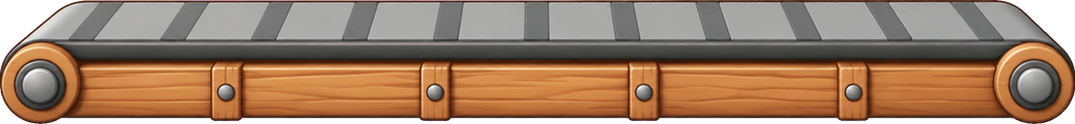
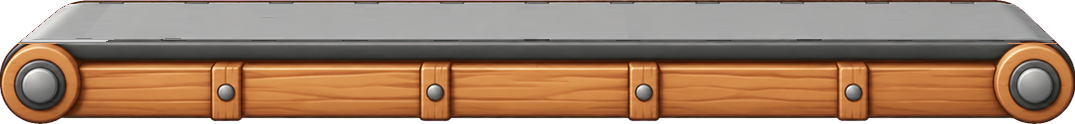
Feeding: an animal never wishes for the same food twice (2-3 different foods per animal); belt without painted slats, foods sit lower on it

diff --git a/tools/art-import/make-feeding-art.js b/tools/art-import/make-feeding-art.js
@@ -20,12 +20,36 @@ const TILE = 88;         // the same, in the installed belt.png
 const SLAT_X = 182;      // a column where a dark slat begins (the crop starts there)
 const SURFACE_Y0 = 4, SURFACE_Y1 = 46;
 
+function eraseSlats(data, w, h, y0, y1) {
+  const lum = (i) => (data[i] + data[i + 1] + data[i + 2]) / 3;
+  for (let y = y0; y < y1 && y < h; y++) {
+    const dark = new Uint8Array(w);
+    for (let x = 0; x < w; x++) { const i = (y * w + x) * 4; dark[x] = data[i + 3] > 200 && lum(i) < 124 ? 1 : 0; }
+    const grown = new Uint8Array(w); // slat edges are anti-aliased: widen each dark run by 3 px
+    for (let x = 0; x < w; x++) if (dark[x]) for (let d = -3; d <= 3; d++) if (x + d >= 0 && x + d < w) grown[x + d] = 1;
+    for (let x = 0; x < w; x++) {
+      if (!grown[x]) continue;
+      let src = -1;
+      for (let d = 1; d < 80 && src < 0; d++) {
+        if (x - d >= 0 && !grown[x - d] && data[((y * w) + x - d) * 4 + 3] > 200) src = x - d;
+        else if (x + d < w && !grown[x + d] && data[((y * w) + x + d) * 4 + 3] > 200) src = x + d;
+      }
+      if (src < 0 || data[(y * w + x) * 4 + 3] < 200) continue;
+      for (let c = 0; c < 3; c++) data[(y * w + x) * 4 + c] = data[(y * w + src) * 4 + c];
+    }
+  }
+}
+
 (async () => {
   const belt = await sharp(path.join(OUT, 'belt.png')).trim().png().toBuffer();
   const meta = await sharp(belt).metadata();
   const scale = TILE / PERIOD;
   const width = Math.round(meta.width * scale), height = Math.round(meta.height * scale);
-  await sharp(belt).resize(width, height).png({ compressionLevel: 9 }).toFile(path.join(RES, 'belt.png'));
+  // The still belt has no slats on its top: the screen draws the moving ones over it (inside the window below) and they slide out from
+  // under the end rollers, so every slat of the picture is painted over with the light surface next to it, row by row.
+  const scaled = await sharp(belt).resize(width, height).ensureAlpha().raw().toBuffer({ resolveWithObject: true });
+  eraseSlats(scaled.data, scaled.info.width, scaled.info.height, Math.round(SURFACE_Y0 * scale), Math.round(SURFACE_Y1 * scale));
+  await sharp(scaled.data, { raw: { width, height, channels: 4 } }).png({ compressionLevel: 9 }).toFile(path.join(RES, 'belt.png'));
 
   const slats = await sharp(belt)
     .extract({ left: SLAT_X, top: SURFACE_Y0, width: PERIOD, height: SURFACE_Y1 - SURFACE_Y0 })

diff --git a/EvasLearningWorld/Assets/Eva/Rules/Feeding.cs b/EvasLearningWorld/Assets/Eva/Rules/Feeding.cs
@@ -4,46 +4,50 @@ using System.Linq;
 
 namespace EvasLearningWorld.Rules
 {
-    // What each animal likes to eat besides its main food (Animal.Food), for the Feeding game's later levels where a hungry animal
-    // wants two different foods. Animals missing here (lion, tiger, wolf, snow leopard, snake, frog) only ever want their main food.
+    // What each animal likes to eat besides its main food (Animal.Food), for the Feeding game's later levels where a hungry animal wants two
+    // or three DIFFERENT foods (an animal never wishes for the same food twice). Animals missing here (lion, tiger, wolf, snow leopard, snake,
+    // frog) only ever want their main food; the dolphin has one more.
     public static class FeedingRules
     {
-        public static readonly IReadOnlyDictionary<string, string> SecondFood = new Dictionary<string, string>
+        public static readonly IReadOnlyDictionary<string, string[]> MoreFoods = new Dictionary<string, string[]>
         {
-            { "cow", "hay" }, { "sheep", "hay" }, { "zebra", "hay" }, { "llama", "hay" }, { "horse", "grass" },
-            { "goat", "leaves" }, { "deer", "leaves" }, { "rhino", "leaves" }, { "giraffe", "grass" },
-            { "elephant", "grass" }, { "beaver", "grass" }, { "gorilla", "banana" },
-            { "chicken", "insects" }, { "duck", "insects" }, { "parrot", "nuts" }, { "swan", "grass" },
-            { "squirrel", "seeds" }, { "monkey", "nuts" }, { "bear", "fish" }, { "dog", "meat" }, { "cat", "fish" },
-            { "pig", "nuts" }, { "owl", "insects" }, { "fox", "insects" }, { "eagle", "fish" }, { "turtle", "insects" },
-            { "fish", "shrimp" }, { "whale", "shrimp" }, { "dolphin", "shrimp" }, { "shark", "shrimp" }, { "octopus", "fish" },
+            { "cow", new[] { "hay", "feed" } }, { "sheep", new[] { "hay", "feed" } }, { "horse", new[] { "grass", "feed" } },
+            { "zebra", new[] { "hay", "leaves" } }, { "llama", new[] { "hay", "leaves" } }, { "goat", new[] { "leaves", "hay" } },
+            { "deer", new[] { "leaves", "nuts" } }, { "rhino", new[] { "leaves", "hay" } }, { "giraffe", new[] { "grass", "hay" } },
+            { "elephant", new[] { "grass", "banana" } }, { "beaver", new[] { "grass", "nuts" } }, { "gorilla", new[] { "banana", "insects" } },
+            { "chicken", new[] { "insects", "grass" } }, { "duck", new[] { "insects", "grass" } }, { "parrot", new[] { "nuts", "banana" } },
+            { "swan", new[] { "grass", "insects" } }, { "squirrel", new[] { "seeds", "insects" } }, { "monkey", new[] { "nuts", "leaves" } },
+            { "bear", new[] { "fish", "nuts" } }, { "dog", new[] { "meat", "fish" } }, { "cat", new[] { "fish", "mice" } },
+            { "pig", new[] { "nuts", "grass" } }, { "owl", new[] { "insects", "fish" } }, { "fox", new[] { "insects", "nuts" } },
+            { "eagle", new[] { "fish", "mice" } }, { "turtle", new[] { "insects", "shrimp" } }, { "fish", new[] { "shrimp", "insects" } },
+            { "whale", new[] { "shrimp", "fish" } }, { "dolphin", new[] { "shrimp" } }, { "shark", new[] { "shrimp", "meat" } },
+            { "octopus", new[] { "fish", "plankton" } },
         };
 
-        // Per level (1-6): how many portions an animal eats before it is full, how many different foods those portions are,
-        // and how many animals one game feeds. The animals come from the first PoolSizeByLevel animals, as in the other Zoo games.
-        public static readonly int[] PortionsByLevel = { 1, 1, 2, 2, 2, 3 };
-        public static readonly int[] KindsByLevel = { 1, 1, 1, 1, 2, 2 };
+        // Per level (1-6): how many different foods an animal wishes for (one portion each), and how many animals one game feeds. The animals come
+        // from the first PoolSizeByLevel animals, as in the other Zoo games, and at two or three portions only those that like that many foods.
+        public static readonly int[] PortionsByLevel = { 1, 1, 2, 2, 3, 3 };
         public static readonly int[] AnimalsByLevel = { 6, 6, 6, 9, 9, 9 };
 
         private static int Index(int level) => Math.Max(0, Math.Min(PortionsByLevel.Length - 1, level - DifficultyLadder.MinLevel));
 
-        // The foods an animal wants at this many kinds: its main food, plus the second one when two kinds are asked for and it has one.
-        public static IReadOnlyList<string> FoodsOf(Animal animal, int kinds)
-        {
-            if (kinds >= 2 && SecondFood.TryGetValue(animal.Id, out var second)) return new[] { animal.Food, second };
-            return new[] { animal.Food };
-        }
+        // The foods an animal can wish for: its main food, then the others it likes.
+        public static IReadOnlyList<string> LikedFoods(Animal animal) =>
+            MoreFoods.TryGetValue(animal.Id, out var more) ? new[] { animal.Food }.Concat(more).ToArray() : new[] { animal.Food };
 
-        // The animals a game at this level can feed; at two kinds only those that have a second food.
+        // The foods an animal wishes for at this many portions (the first ones of its liked foods).
+        public static IReadOnlyList<string> FoodsOf(Animal animal, int portions) => LikedFoods(animal).Take(portions).ToArray();
+
+        // The animals a game at this level can feed: those that like at least as many foods as the level has portions.
         public static IReadOnlyList<Animal> PoolFor(int level)
         {
             var index = Index(level);
-            var pool = ZooFarmAnimals.All.Take(Math.Min(ZooFarmRoundGenerator.PoolSizeByLevel[index], ZooFarmAnimals.All.Length));
-            return (KindsByLevel[index] >= 2 ? pool.Where(a => SecondFood.ContainsKey(a.Id)) : pool).ToList();
+            var portions = PortionsByLevel[index];
+            return ZooFarmAnimals.All.Take(Math.Min(ZooFarmRoundGenerator.PoolSizeByLevel[index], ZooFarmAnimals.All.Length))
+                .Where(a => LikedFoods(a).Count >= portions).ToList();
         }
 
         public static int PortionsAt(int level) => PortionsByLevel[Index(level)];
-        public static int KindsAt(int level) => KindsByLevel[Index(level)];
         public static int AnimalsAt(int level) => AnimalsByLevel[Index(level)];
     }
 
@@ -74,7 +78,7 @@ namespace EvasLearningWorld.Rules
         private const int WantedKindsOnBelt = 2;
 
         private readonly Random _rng;
-        private readonly int _portions, _kinds;
+        private readonly int _portions;
         private readonly List<Animal> _queue;
         private string _lastSpawn;
 
@@ -86,11 +90,10 @@ namespace EvasLearningWorld.Rules
         {
             _rng = rng;
             _portions = FeedingRules.PortionsAt(level);
-            _kinds = FeedingRules.KindsAt(level);
             var pool = FeedingRules.PoolFor(level);
             _queue = pool.OrderBy(_ => rng.Next()).Take(FeedingRules.AnimalsAt(level)).ToList();
             Total = _queue.Count;
-            BeltFoods = pool.SelectMany(a => FeedingRules.FoodsOf(a, _kinds)).Distinct().ToList();
+            BeltFoods = pool.SelectMany(a => FeedingRules.FoodsOf(a, _portions)).Distinct().ToList();
             for (var seat = 0; seat < Seats; seat++) Guests[seat] = NextGuest();
         }
 
@@ -163,24 +166,13 @@ namespace EvasLearningWorld.Rules
         {
             if (_queue.Count == 0) return null;
             var visible = new HashSet<string>(Guests.Where(g => g != null).SelectMany(g => g.Wishes));
-            var animal = _queue.FirstOrDefault(a => !FeedingRules.FoodsOf(a, _kinds).Any(visible.Contains)) ?? _queue[0];
+            var animal = _queue.FirstOrDefault(a => !FeedingRules.FoodsOf(a, _portions).Any(visible.Contains)) ?? _queue[0];
             _queue.Remove(animal);
             var wishes = WishesOf(animal);
             return new FeedingGuest { AnimalId = animal.Id, Wishes = wishes, Fed = new bool[wishes.Length] };
         }
 
-        // One food: every portion is it. Two foods: each at least once, the rest either, in a shuffled order.
-        private string[] WishesOf(Animal animal)
-        {
-            var foods = FeedingRules.FoodsOf(animal, _kinds);
-            var wishes = new List<string>();
-            if (foods.Count == 1) for (var i = 0; i < _portions; i++) wishes.Add(foods[0]);
-            else
-            {
-                wishes.AddRange(foods);
-                while (wishes.Count < _portions) wishes.Add(foods[_rng.Next(foods.Count)]);
-            }
-            return wishes.OrderBy(_ => _rng.Next()).ToArray();
-        }
+        // One portion of each of the foods the animal wishes for, in a shuffled order.
+        private string[] WishesOf(Animal animal) => FeedingRules.FoodsOf(animal, _portions).OrderBy(_ => _rng.Next()).ToArray();
     }
 }

diff --git a/EvasLearningWorld/Assets/Eva/Tests/FeedingTests.cs b/EvasLearningWorld/Assets/Eva/Tests/FeedingTests.cs
@@ -12,31 +12,30 @@ namespace EvasLearningWorld.Tests
     public class FeedingTests
     {
         [Test]
-        public void EverySecondFoodIsARealDifferentFoodWithItsPicture()
+        public void EveryLikedFoodIsADifferentRealFoodWithItsPicture()
         {
-            foreach (var pair in FeedingRules.SecondFood)
+            foreach (var pair in FeedingRules.MoreFoods)
             {
                 var animal = ZooFarmAnimals.All.FirstOrDefault(a => a.Id == pair.Key);
                 Assert.That(animal, Is.Not.Null, pair.Key + " is in the roster");
-                Assert.That(pair.Value, Is.Not.EqualTo(animal.Food), pair.Key);
-                Assert.That(Resources.Load<Sprite>("Art/zoofarm/food_" + pair.Value), Is.Not.Null, "second food of " + pair.Key);
+                var liked = FeedingRules.LikedFoods(animal);
+                Assert.That(liked.Distinct().Count(), Is.EqualTo(liked.Count), pair.Key + " likes a food twice");
+                foreach (var food in pair.Value) Assert.That(Resources.Load<Sprite>("Art/zoofarm/food_" + food), Is.Not.Null, food + " of " + pair.Key);
             }
             foreach (var animal in ZooFarmAnimals.All)
                 Assert.That(Resources.Load<Sprite>("Art/zoofarm/food_" + animal.Food), Is.Not.Null, "food of " + animal.Id);
         }
 
         [Test]
-        public void EveryLevelHasEnoughAnimalsAndAtTwoKindsEveryOneHasASecondFood()
+        public void EveryLevelHasEnoughAnimalsThatLikeEnoughFoods()
         {
             Assert.That(FeedingRules.PortionsByLevel.Length, Is.EqualTo(6));
-            Assert.That(FeedingRules.KindsByLevel.Length, Is.EqualTo(6));
             Assert.That(FeedingRules.AnimalsByLevel.Length, Is.EqualTo(6));
             for (var level = 1; level <= 6; level++)
             {
                 var pool = FeedingRules.PoolFor(level);
                 Assert.That(pool.Count, Is.GreaterThanOrEqualTo(FeedingRules.AnimalsAt(level)), "level " + level);
-                if (FeedingRules.KindsAt(level) == 2)
-                    foreach (var animal in pool) Assert.That(FeedingRules.SecondFood.ContainsKey(animal.Id), Is.True, animal.Id + " at level " + level);
+                foreach (var animal in pool) Assert.That(FeedingRules.LikedFoods(animal).Count, Is.GreaterThanOrEqualTo(FeedingRules.PortionsAt(level)), animal.Id + " at level " + level);
             }
         }
 
@@ -69,8 +68,7 @@ namespace EvasLearningWorld.Tests
 
                     var guest = game.Guests[seat];
                     Assert.That(guest.Wishes.Length, Is.EqualTo(FeedingRules.PortionsAt(level)), label);
-                    Assert.That(guest.Wishes.Distinct().Count(), Is.LessThanOrEqualTo(FeedingRules.KindsAt(level)), label);
-                    if (FeedingRules.KindsAt(level) == 2) Assert.That(guest.Wishes.Distinct().Count(), Is.EqualTo(2), label + " " + guest.AnimalId + " wants two foods");
+                    Assert.That(guest.Wishes.Distinct().Count(), Is.EqualTo(guest.Wishes.Length), label + " " + guest.AnimalId + " wishes for the same food twice");
                     foreach (var wish in guest.Wishes) Assert.That(game.BeltFoods, Does.Contain(wish), label);
 
                     var food = belt.First(guest.Wants);
@@ -94,14 +92,16 @@ namespace EvasLearningWorld.Tests
         [Test]
         public void AFoodTheAnimalDoesNotWishForIsRefusedAndAFedWishIsNotFedTwice()
         {
-            var game = new FeedingGame(3, new System.Random(1)); // two portions of one food
+            var game = new FeedingGame(3, new System.Random(1)); // two different foods
             var guest = game.Guests[0];
-            var food = guest.Wishes[0];
-            var other = game.BeltFoods.First(f => f != food);
+            var first = guest.Wishes[0];
+            var second = guest.Wishes[1];
+            var other = game.BeltFoods.First(f => !guest.Wishes.Contains(f));
             Assert.That(game.Feed(0, other, out _), Is.EqualTo(FeedResult.Refused));
-            Assert.That(game.Feed(0, food, out _), Is.EqualTo(FeedResult.Fed));
-            Assert.That(game.Feed(0, food, out _), Is.EqualTo(FeedResult.Full));
-            Assert.That(game.Feed(0, food, out _), Is.EqualTo(FeedResult.Refused), "a full animal takes nothing more");
+            Assert.That(game.Feed(0, first, out _), Is.EqualTo(FeedResult.Fed));
+            Assert.That(game.Feed(0, first, out _), Is.EqualTo(FeedResult.Refused), "a fed wish is not fed twice");
+            Assert.That(game.Feed(0, second, out _), Is.EqualTo(FeedResult.Full));
+            Assert.That(game.Feed(0, second, out _), Is.EqualTo(FeedResult.Refused), "a full animal takes nothing more");
         }
 
         [Test]

diff --git a/EvasLearningWorld/Assets/Eva/App/Screens/FeedingScreen.cs b/EvasLearningWorld/Assets/Eva/App/Screens/FeedingScreen.cs
@@ -60,7 +60,7 @@ namespace EvasLearningWorld.App
         private static readonly float[] BeltSpeedByLevel = { 85f, 95f, 105f, 115f, 125f, 135f };
 
         private const float ItemSize = 210f;
-        private const float ItemY = -198f;
+        private const float ItemY = -214f;
         private const float SpawnX = 290f, ExitX = -690f, Pitch = 230f; // SpawnX keeps a new food clear of the pair standing bottom-right
         private const int MaxItems = 7;
 
